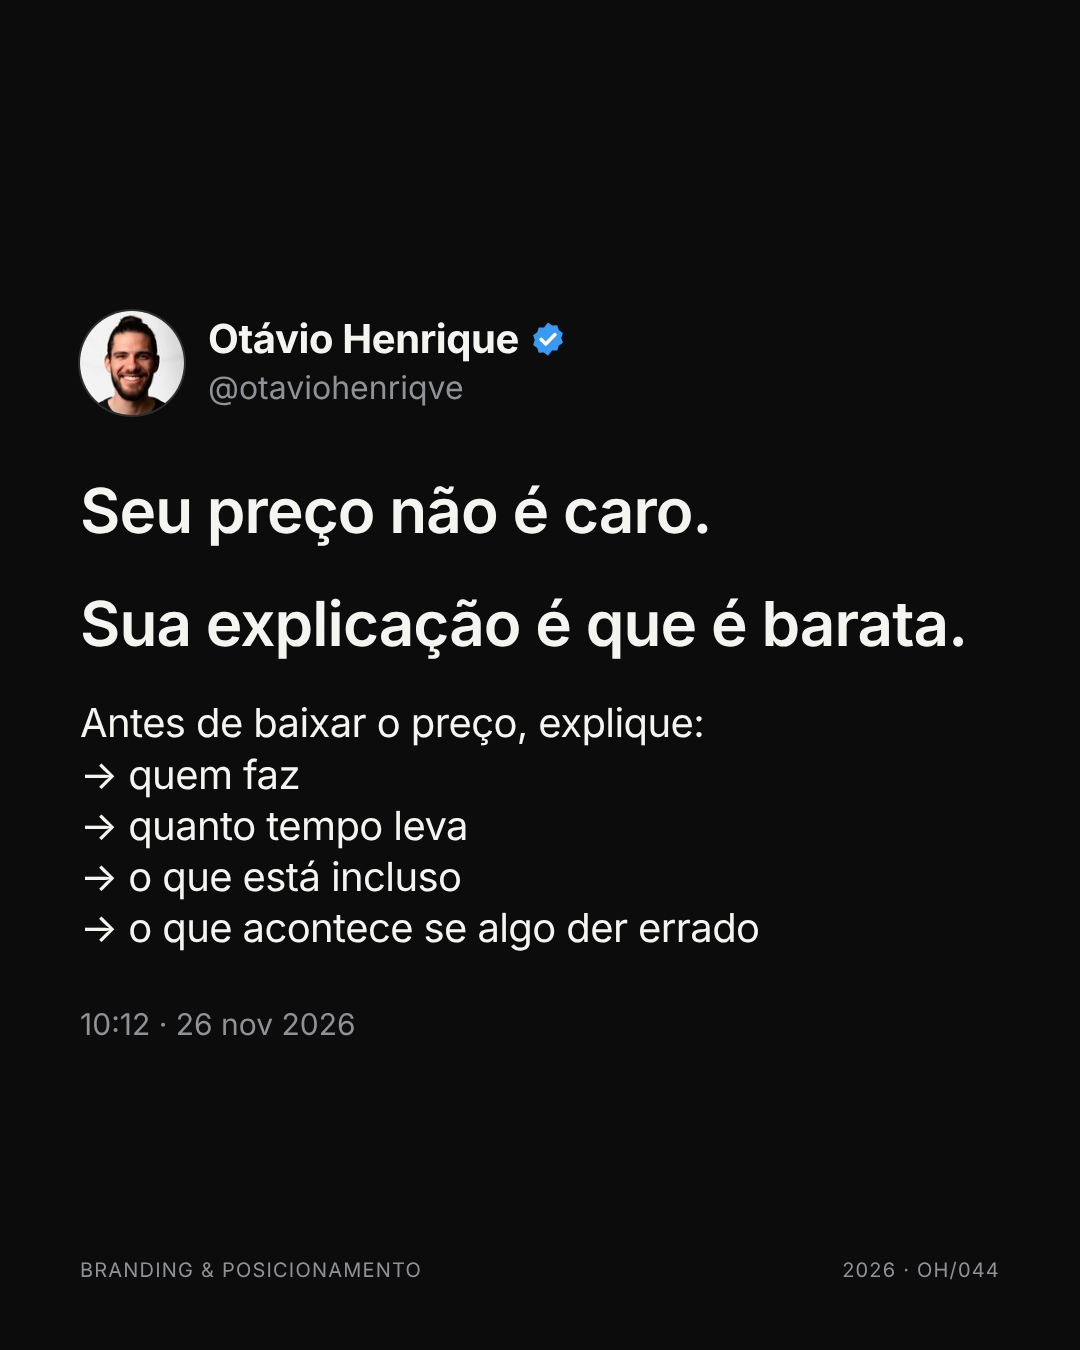
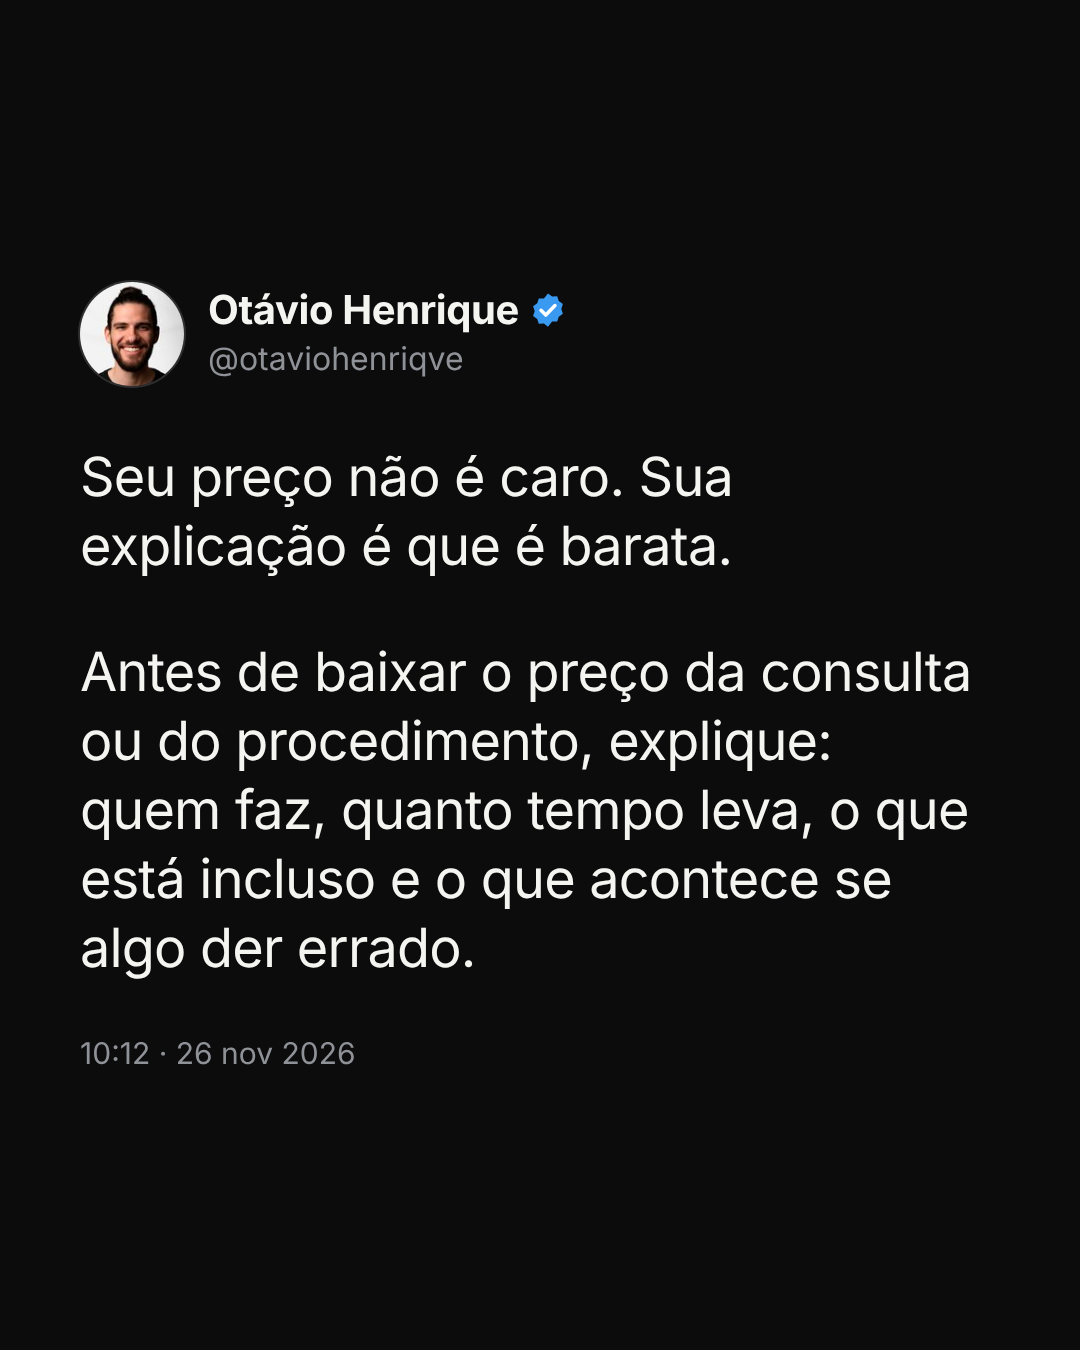
Estático TW volta ao padrão print de tweet (definido pelo Otávio)
Claude-Session: https://claude.ai/code/session_01GTBDSLfyakYzF6A2vFjK6d

diff --git a/docs/ESTEIRA.md b/docs/ESTEIRA.md
@@ -123,6 +123,9 @@ Para passar, a **média precisa ser ≥ 8,5 e nenhum critério pode ficar abaixo
   - blocos de número, lista, comparação, citação ou foto.
 - Paleta: preto, branco e off-white, com acento lime #D4FF3A ou azul #1F4FFF. Vermelho #E5484D só para marcar erro.
 
+
+**Estático estilo tweet (TW), padrão definido pelo Otávio em 21/11:** igual a um print real de tweet. Texto em peso normal, num tamanho só (`size` 54), em parágrafos corridos. Sem negrito, sem lista com setas, sem rodapé da série e sem acento colorido: é a simplicidade que gera conexão. Referência: `posts/2026-11-26-preco-explicacao/`. O revisor de qualidade não deve descontar pontos por vazio, falta de acento ou falta de rodapé nesse formato.
+
 **Reel:**
 - Mande o roteiro para o Otávio gravar.
 - Quando o vídeo bruto chegar, a edição segue a skill `edicao-video-otaviohenriqve`:
